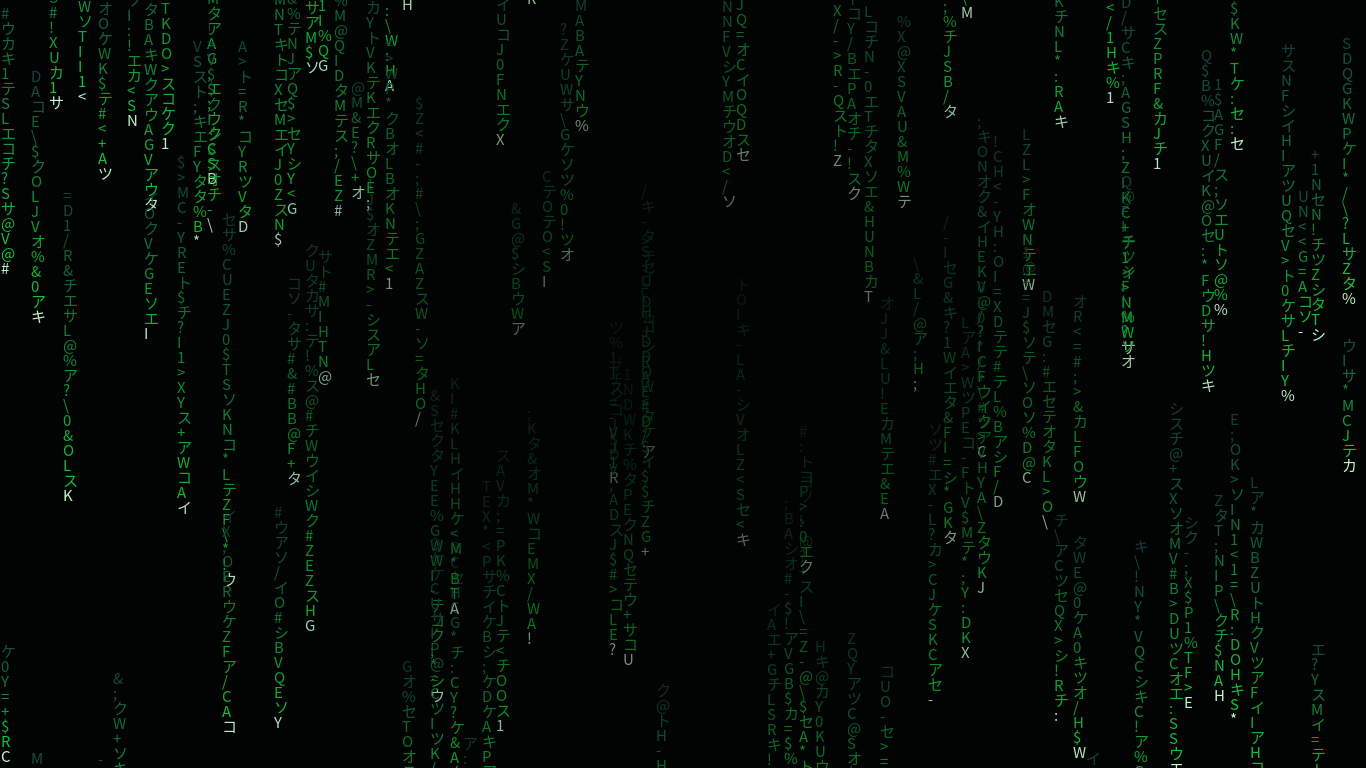
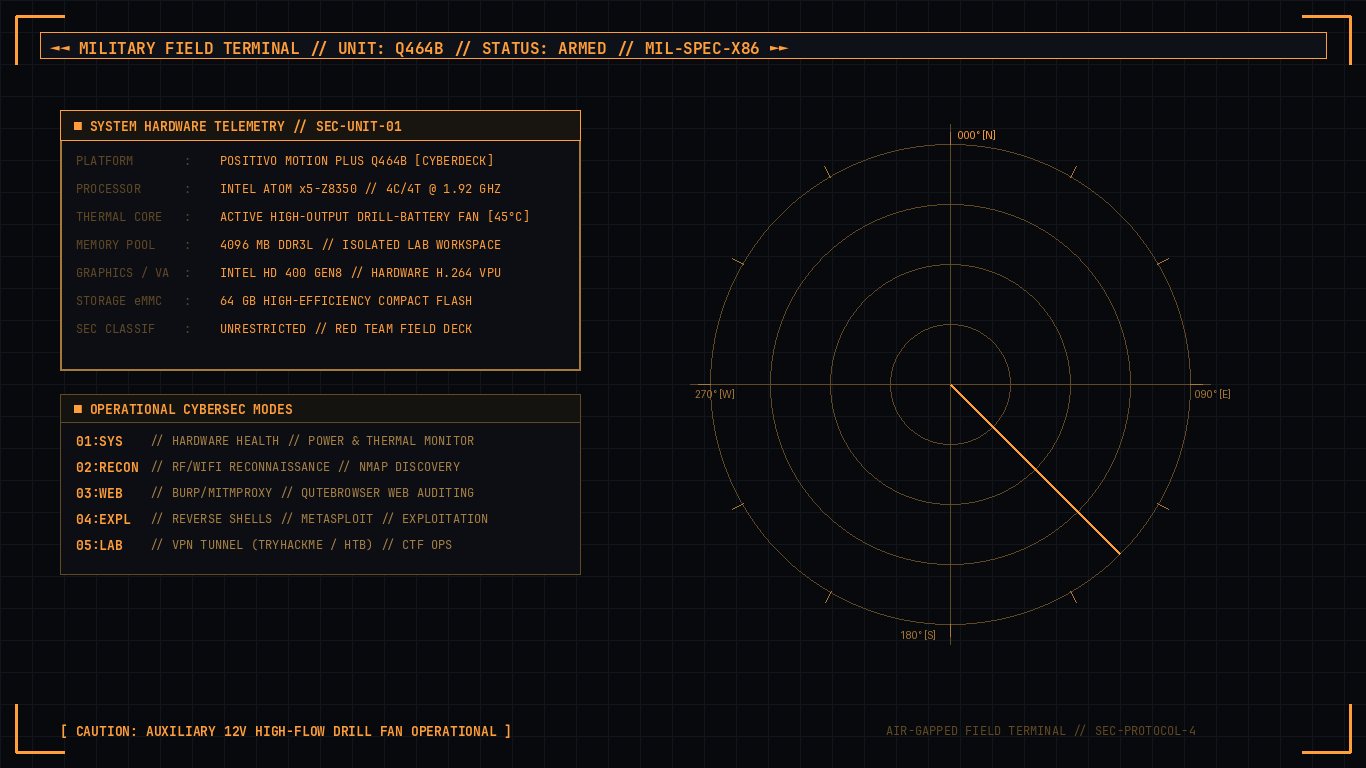
feat: redesign militar mil-spec completo, fix scratchpad toggle Super+U, atualizacao da lockscreen e lightdm tatico

diff --git a/lightdm/matrix-q464b-lightdm/gtk-3.0/gtk.css b/lightdm/matrix-q464b-lightdm/gtk-3.0/gtk.css
@@ -1,15 +1,13 @@
 /* =========================================================
- * matrix-q464b-lightdm — tema GTK3 pro lightdm-gtk-greeter
- * Seletores genéricos (não dependem de IDs específicos do
- * greeter), então funcionam mesmo se a versão do widget
- * mudar um pouco entre distros/versões.
+ * lightdm — MIL-SPEC Tactical Amber Theme (Cyberdeck Q464B)
  * ========================================================= */
 
-@define-color accent #39ff5c;
-@define-color bg #0d1117;
-@define-color panelbg #04120c;
-@define-color fg #c9d1d9;
-@define-color dim #6e7681;
+@define-color accent #ff9e3b;
+@define-color bg #0d0e11;
+@define-color panelbg #14161d;
+@define-color fg #e6dfd3;
+@define-color dim #70624e;
+@define-color border #a88144;
 
 window {
     background-color: transparent;
@@ -17,21 +15,22 @@ window {
     font-family: "JetBrains Mono";
 }
 
-/* painel superior (relógio, indicador de sessão/energia) */
+/* Painel superior militar */
 #panel_window,
 GdmSessionOptionWidget,
 .lightdm-gtk-greeter-panel {
     background-color: @panelbg;
     color: @accent;
-    border-bottom: 2px solid @accent;
+    border-bottom: 2px solid @border;
 }
 
-/* caixa central de login */
+/* Caixa central de login com cantos retos mil-spec */
 GtkEventBox,
 .login-window {
     background-color: @panelbg;
-    border: 2px solid @accent;
-    border-radius: 6px;
+    border: 3px solid @accent;
+    border-radius: 0px;
+    padding: 16px;
 }
 
 label {
@@ -42,47 +41,49 @@ label {
 entry {
     background-color: @bg;
     color: @accent;
-    border: 1px solid @accent;
-    border-radius: 3px;
-    padding: 6px 8px;
+    border: 2px solid @border;
+    border-radius: 0px;
+    padding: 8px 10px;
     font-family: "JetBrains Mono";
     caret-color: @accent;
 }
 
 entry:focus {
     border-color: @accent;
-    box-shadow: 0 0 4px @accent;
+    box-shadow: 0 0 6px @accent;
 }
 
 button {
     background-color: @bg;
     color: @accent;
     border: 2px solid @accent;
-    border-radius: 4px;
+    border-radius: 0px;
     font-family: "JetBrains Mono";
-    padding: 4px 12px;
+    padding: 6px 14px;
+    font-weight: bold;
 }
 
 button:hover {
-    background-color: @panelbg;
-    color: @accent;
+    background-color: @accent;
+    color: @bg;
 }
 
 combobox,
 combobox button {
     background-color: @bg;
     color: @fg;
-    border: 1px solid @accent;
-    border-radius: 3px;
+    border: 1px solid @border;
+    border-radius: 0px;
 }
 
 menu, .menu {
     background-color: @panelbg;
     color: @fg;
-    border: 1px solid @accent;
+    border: 2px solid @border;
+    border-radius: 0px;
 }
 
 menuitem:hover {
-    background-color: @bg;
-    color: @accent;
+    background-color: @accent;
+    color: @bg;
 }
